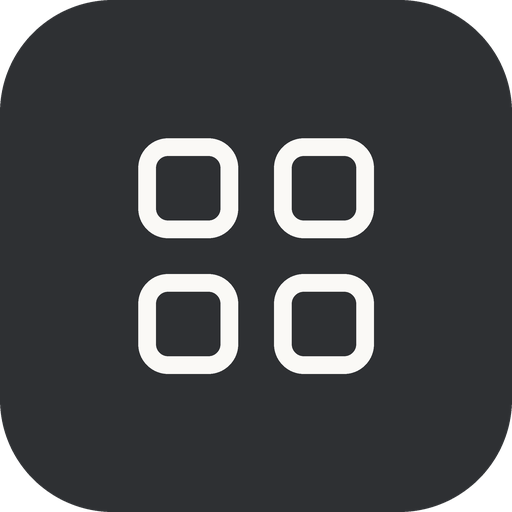
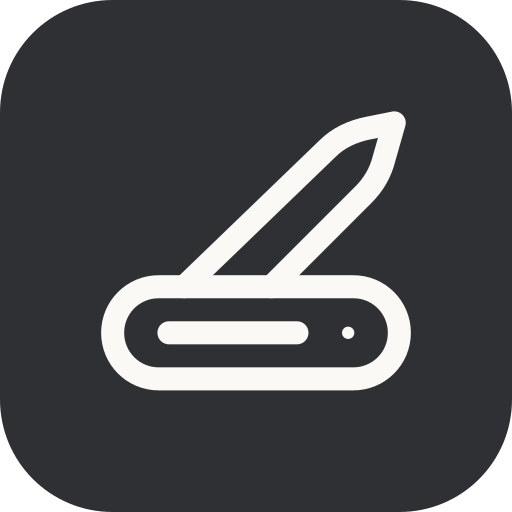
Dijital Çakı menüsü ve logosu

Changed region(s): [[0.1875, 0.2188, 0.8125, 0.7812]]

diff --git a/style.css b/style.css
@@ -1,7 +1,7 @@
 /* Tasarım: siyah-beyaz, sade, cam görünüm. Tüm uygulamalar aynı değişkenleri kullanır. */
 :root {
   color-scheme: light;
-  --bg: #efede8; --ink: #2e3033; --mute: #75736e; --line: rgba(0,0,0,.08);
+  --bg: #efede8; --ink: #2e3033; --mute: #62615c; --line: rgba(0,0,0,.12);
   --glass: rgba(250,249,246,.55); --glass-edge: rgba(250,249,246,.85); --shadow: 0 8px 28px rgba(0,0,0,.07);
   --solid: #2e3033; --solid-ink: #faf9f6;
   --halo-a: #faf9f6; --halo-b: #dcd9d3;
@@ -35,17 +35,35 @@ body {
   background: var(--glass); border: 1px solid var(--glass-edge); box-shadow: var(--shadow);
   -webkit-backdrop-filter: blur(18px) saturate(1.1); backdrop-filter: blur(18px) saturate(1.1);
 }
-main { max-width: 640px; margin: 0 auto; padding: 40px 20px 40px; }
-header { margin-bottom: 32px; }
-h1 { margin: 0; font-size: 1.9rem; font-weight: 600; letter-spacing: -0.03em; }
-#today { margin: 4px 0 0; color: var(--mute); }
-.hidden { display: none !important; }
+main { max-width: 820px; margin: 0 auto; padding: clamp(44px, 8vw, 88px) clamp(20px, 5vw, 40px) 44px; }
+header { display: flex; align-items: center; gap: 12px; margin-bottom: 34px; padding-right: 42px; }
+.brand-icon { flex: none; border-radius: 10px; }
+h1 { margin: 0; font-size: clamp(2rem, 6vw, 3rem); font-weight: 650; line-height: 1.1; letter-spacing: -0.05em; }
 
-.grid { display: grid; grid-template-columns: repeat(auto-fill, minmax(72px, 1fr)); gap: 26px 10px; }
-.app { display: flex; flex-direction: column; align-items: center; text-align: center; text-decoration: none; color: inherit;
-  -webkit-tap-highlight-color: transparent; }
-.icon { width: 66px; height: 66px; border-radius: 18px; display: grid; place-items: center; color: var(--ink); transition: transform .12s; }
-.app:hover .icon { transform: translateY(-2px); }
-.app:active .icon { transform: scale(.93); }
-.label { margin-top: 8px; font-size: 0.82rem; font-weight: 500; line-height: 1.2; }
+.grid { display: grid; gap: 27px 36px; }
+.grid section { min-width: 0; }
+.grid h2 {
+  margin: 0 0 6px; padding-bottom: 8px; border-bottom: 1px solid var(--line);
+  color: var(--mute); font-size: .875rem; font-weight: 650;
+}
+.tool-list { list-style: none; margin: 0; padding: 0; }
+.app {
+  display: grid; grid-template-columns: 42px minmax(0, 1fr); align-items: center; gap: 12px;
+  min-height: 60px; padding: 8px 6px; border-radius: 10px; text-decoration: none; color: inherit;
+}
+.app:hover { background: var(--glass); }
+.app:focus-visible, .tema-btn:focus-visible { outline: 2px solid var(--ink); outline-offset: 2px; }
+.icon {
+  width: 42px; height: 42px; display: grid; place-items: center;
+  background: var(--glass); border: 1px solid var(--line); border-radius: 11px;
+}
+.label, .description { display: block; overflow-wrap: anywhere; }
+.label { font-size: .975rem; font-weight: 620; }
+.description { color: var(--mute); font-size: .83rem; line-height: 1.35; margin-top: 2px; }
+@media (min-width: 680px) {
+  .grid { grid-template-columns: repeat(2, minmax(0, 1fr)); }
+}
+@media (prefers-reduced-motion: reduce) {
+  body .tema-btn { transition: none; }
+}
 

diff --git a/app.js b/app.js
@@ -1,20 +1,37 @@
-import { APPS } from "./apps.js?v=20261125e";
+import { CATEGORIES } from "./apps.js?v=20261126a";
 import { icon } from "./icons.js?v=20261125e";
 
 const grid = document.getElementById("grid");
-for (const a of APPS) {
-  const el = document.createElement("a");
-  el.className = "app";
-  el.href = a.url;
-  el.title = a.desc || a.name;
-  const tile = document.createElement("span");
-  tile.className = "icon glass";
-  tile.innerHTML = icon(a.icon, 30);
-  const label = document.createElement("span");
-  label.className = "label";
-  label.textContent = a.name;
-  el.append(tile, label);
-  grid.append(el);
+for (const category of CATEGORIES) {
+  if (!category.apps.length) continue;
+  const section = document.createElement("section");
+  const heading = document.createElement("h2");
+  heading.id = `category-${category.id}`;
+  heading.textContent = category.name;
+  section.setAttribute("aria-labelledby", heading.id);
+  const list = document.createElement("ul");
+  list.className = "tool-list";
+  list.setAttribute("role", "list");
+  for (const app of category.apps) {
+    const row = document.createElement("li");
+    const link = document.createElement("a");
+    link.className = "app";
+    link.href = app.url;
+    const glyph = document.createElement("span");
+    glyph.className = "icon";
+    glyph.innerHTML = icon(app.icon, 21);
+    const details = document.createElement("span");
+    const label = document.createElement("span");
+    label.className = "label";
+    label.textContent = app.name;
+    const description = document.createElement("span");
+    description.className = "description";
+    description.textContent = app.desc;
+    details.append(label, description);
+    link.append(glyph, details);
+    row.append(link);
+    list.append(row);
+  }
+  section.append(heading, list);
+  grid.append(section);
 }
-
-document.getElementById("today").textContent = new Date().toLocaleDateString("tr-TR", { weekday: "long", day: "numeric", month: "long" });

diff --git a/index.html b/index.html
@@ -3,28 +3,29 @@
 <head>
 <meta charset="UTF-8">
 <meta name="viewport" content="width=device-width, initial-scale=1, viewport-fit=cover">
-<title>Uygulamalarım</title>
-<meta name="description" content="Kendi yaptığım basit, işe yarar uygulamalar.">
+<title>Dijital Çakı</title>
+<meta name="description" content="Fotoğraf, video, belge ve QR için tarayıcıda çalışan pratik araçlar.">
 <meta name="theme-color" content="#efede8" media="(prefers-color-scheme: light)">
 <meta name="theme-color" content="#1f2022" media="(prefers-color-scheme: dark)">
-<link rel="manifest" href="/manifest.webmanifest">
-<link rel="icon" type="image/png" href="/icons/favicon.png">
-<link rel="apple-touch-icon" href="/icons/apple-touch-icon.png">
+<link rel="manifest" href="/manifest.webmanifest?v=20261126a">
+<link rel="icon" type="image/png" href="/icons/favicon.png?v=20261126a">
+<link rel="icon" type="image/svg+xml" href="/icons/dijital-caki.svg">
+<link rel="apple-touch-icon" href="/icons/apple-touch-icon.png?v=20261126a">
 <meta name="apple-mobile-web-app-capable" content="yes">
 <meta name="mobile-web-app-capable" content="yes">
-<meta name="apple-mobile-web-app-title" content="Uygulamalarım">
+<meta name="apple-mobile-web-app-title" content="Dijital Çakı">
 <meta name="apple-mobile-web-app-status-bar-style" content="default">
 <script src="/theme.js?v=20261125d"></script>
-<link rel="stylesheet" href="/style.css?v=20261125d">
-<script type="module" src="/app.js?v=20261125e"></script>
+<link rel="stylesheet" href="/style.css?v=20261126a">
+<script type="module" src="/app.js?v=20261126a"></script>
 </head>
 <body>
 <main>
   <header>
-    <h1>Uygulamalarım</h1>
-    <p id="today"></p>
+    <img class="brand-icon" src="/icons/dijital-caki.svg" width="44" height="44" alt="">
+    <h1>Dijital Çakı</h1>
   </header>
-  <nav id="grid" class="grid" aria-label="Uygulamalar"></nav>
+  <nav id="grid" class="grid" aria-label="Araçlar"></nav>
 </main>
 </body>
 </html>

diff --git a/apps.js b/apps.js
@@ -1,9 +1,16 @@
-// Yeni bir uygulama eklemek için bu listeye bir satır eklemek yeterli.
-// icon: icons.js içindeki simge adı
-export const APPS = [
-  { name: "Foto Araçları", desc: "Arka plan sil · dönüştür · sıkıştır", url: "/foto/", icon: "image" },
-  { name: "Video Araçları", desc: "Sesini çıkar · GIF yap", url: "/video/", icon: "video" },
-  { name: "Belge Tarayıcı", desc: "Tara, düzelt, PDF yap", url: "/belge/", icon: "scan" },
-  { name: "QR Kod", desc: "Wi-Fi, IBAN, WhatsApp, kartvizit…", url: "/qr/", icon: "qr" },
-  { name: "Kitap Çevirici", desc: "PDF → EPUB, Türkçe", url: "/pdf-epub/", icon: "book" },
+// Yeni bir bağımsız aracı ilgili kategoriye ekle. icon, icons.js içindeki simge adı.
+export const CATEGORIES = [
+  { id: "foto", name: "Fotoğraf", apps: [
+    { name: "Foto Araçları", desc: "Arka plan sil, dönüştür, sıkıştır", url: "/foto/", icon: "image" },
+  ] },
+  { id: "video", name: "Video ve Ses", apps: [
+    { name: "Video Araçları", desc: "Ses çıkar, GIF yap", url: "/video/", icon: "video" },
+  ] },
+  { id: "belge", name: "Belge ve Kitap", apps: [
+    { name: "Belge Tarayıcı", desc: "Belgeyi tara, düzelt, PDF yap", url: "/belge/", icon: "scan" },
+    { name: "Kitap Çevirici", desc: "Türkçe PDF’yi EPUB’a dönüştür", url: "/pdf-epub/", icon: "book" },
+  ] },
+  { id: "kod", name: "QR ve Barkod", apps: [
+    { name: "QR Kod", desc: "Wi-Fi, IBAN ve kartvizit için QR oluştur", url: "/qr/", icon: "qr" },
+  ] },
 ];

diff --git a/README.md b/README.md
@@ -1,5 +1,5 @@
-# Uygulamalarım
+# Dijital Çakı
 
-https://dogukaska.github.io adresindeki ana sayfa. Bütün uygulamalar telefon menüsü gibi tek ekranda.
+https://dogukaska.github.io adresindeki araç merkezi.
 
-Yeni uygulama eklemek için `apps.js` dosyasına bir satır eklemek yeterli.
+Mevcut bir uygulamanın içindeki yeni özellik, kendi uygulama deposunda geliştirilir. Bağımsız bir araç için `apps.js` dosyasında ilgili kategoriye bir satır ekle. Yeni bir alana giren araç için ayrı bir depo ve kategori oluştur. Menü listesi değiştiğinde `app.js` ve `index.html` içindeki ilgili sürüm numaralarını artır.
